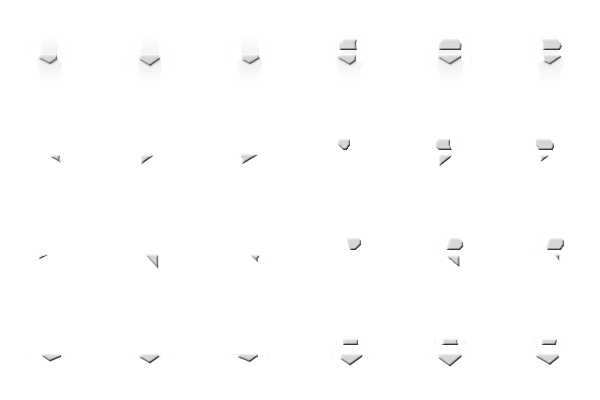
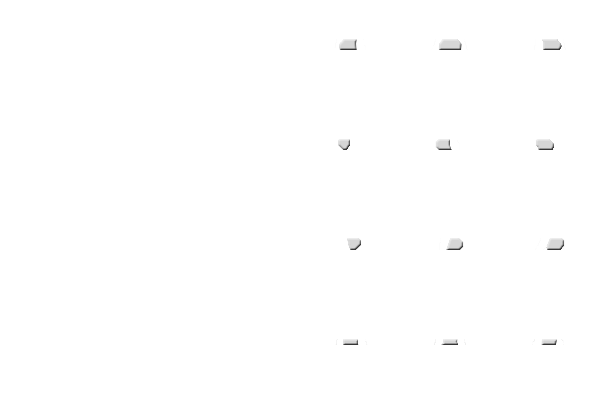
Improved msg; swimming

diff --git a/gamepalclient/src/draw.js b/gamepalclient/src/draw.js
@@ -19,17 +19,21 @@ export const drawMethods = {
     context.restore()
   },
   drawCharacter (constants, context, tempCanvas, x, y, deltaWidth, deltaHeight, avatarSize, imageBlockSize, blockSize, defaultBlockSize,
-    upLeftPoint, downRightPoint,
-    userCode, playerInfoTemp, relations, avatarIndex,
-    avatarsImage, bodiesImage, armsImage, eyesImage, hairstylesImage, toolsImage, outfitsImage, animalsImage) {
+      upLeftPoint, downRightPoint,
+      userCode, playerInfoTemp, relations, avatarIndex,
+      avatarsImage, bodiesImage, armsImage, eyesImage, hairstylesImage, toolsImage, outfitsImage, animalsImage) {
+
+    var isSwimming = this.isDef(playerInfoTemp.floorCode) && playerInfoTemp.floorCode == 1018
     // Draw shadow
-    context.save()
-    context.beginPath()
-    context.fillStyle = 'rgba(31, 31, 31, 0.25)'
-    context.ellipse((x + 0.5) * blockSize + deltaWidth, (y+ 0.9) * blockSize + deltaHeight,
-    blockSize * 0.2, blockSize * 0.1, 0, 0, 2 * Math.PI)
-    context.fill()
-    context.restore()
+    if (!isSwimming) {
+      context.save()
+      context.beginPath()
+      context.fillStyle = 'rgba(31, 31, 31, 0.25)'
+      context.ellipse((x + 0.5) * blockSize + deltaWidth, (y+ 0.9) * blockSize + deltaHeight,
+      blockSize * 0.2, blockSize * 0.1, 0, 0, 2 * Math.PI)
+      context.fill()
+      context.restore()
+    }
 
     var offsetX, offsetY
     if (playerInfoTemp.faceDirection >= 315 || playerInfoTemp.faceDirection < 45) {
@@ -75,19 +79,26 @@ export const drawMethods = {
       // Draw head
       this.drawHead(context, imageBlockSize, blockSize, upLeftPoint, downRightPoint, offsetY, playerInfoTemp, eyesImage, hairstylesImage)
       // Draw body (down)
-      context.drawImage(bodiesImage[playerInfoTemp.skinColor - 1], offsetX * imageBlockSize, (constants.WAIST_BODY_RATIO + offsetY) * imageBlockSize, imageBlockSize, (1 - constants.WAIST_BODY_RATIO) * imageBlockSize, 
-      x * blockSize + deltaWidth, (constants.WAIST_BODY_RATIO + y) * blockSize + deltaHeight, blockSize, (1 - constants.WAIST_BODY_RATIO) * blockSize)
+      if (!isSwimming) {
+        context.drawImage(bodiesImage[playerInfoTemp.skinColor - 1], offsetX * imageBlockSize, (constants.WAIST_BODY_RATIO + offsetY) * imageBlockSize, imageBlockSize, (1 - constants.WAIST_BODY_RATIO) * imageBlockSize, 
+        x * blockSize + deltaWidth, (constants.WAIST_BODY_RATIO + y) * blockSize + deltaHeight, blockSize, (1 - constants.WAIST_BODY_RATIO) * blockSize)
+      }
       // Draw body (up)
       context.drawImage(bodiesImage[playerInfoTemp.skinColor - 1], upOffsetX * imageBlockSize, (constants.HEAD_BODY_RATIO + offsetY) * imageBlockSize, imageBlockSize, (constants.WAIST_BODY_RATIO - constants.HEAD_BODY_RATIO) * imageBlockSize, 
       x * blockSize + deltaWidth, (constants.HEAD_BODY_RATIO + y) * blockSize + deltaHeight, blockSize, (constants.WAIST_BODY_RATIO - constants.HEAD_BODY_RATIO) * blockSize)
       // Draw underwear
-      this.drawOutfits(context, tempCanvas, outfitsImage, 'a006', 0, upOffsetX, offsetY, x, y, deltaWidth, deltaHeight, imageBlockSize, blockSize)
+      this.drawOutfits(context, tempCanvas, outfitsImage, 'o006', 0, upOffsetX, offsetY, x, y, deltaWidth, deltaHeight, imageBlockSize, blockSize)
+      if (!isSwimming) {
+        this.drawOutfits(context, tempCanvas, outfitsImage, 'o006', 1, upOffsetX, offsetY, x, y, deltaWidth, deltaHeight, imageBlockSize, blockSize)
+      }
       if (this.isDef(playerInfoTemp.outfits) && playerInfoTemp.outfits.length > 0) {
         for (var outfitIndex in playerInfoTemp.outfits) {
-          // Draw pants
-          this.drawOutfits(context, tempCanvas, outfitsImage, playerInfoTemp.outfits[outfitIndex], 1, offsetX, offsetY, x, y, deltaWidth, deltaHeight, imageBlockSize, blockSize)
-          // Draw shoes
-          this.drawOutfits(context, tempCanvas, outfitsImage, playerInfoTemp.outfits[outfitIndex], 2, offsetX, offsetY, x, y, deltaWidth, deltaHeight, imageBlockSize, blockSize)
+          if (!isSwimming) {
+            // Draw pants
+            this.drawOutfits(context, tempCanvas, outfitsImage, playerInfoTemp.outfits[outfitIndex], 1, offsetX, offsetY, x, y, deltaWidth, deltaHeight, imageBlockSize, blockSize)
+            // Draw shoes
+            this.drawOutfits(context, tempCanvas, outfitsImage, playerInfoTemp.outfits[outfitIndex], 2, offsetX, offsetY, x, y, deltaWidth, deltaHeight, imageBlockSize, blockSize)
+          }
           // Draw clothes
           this.drawOutfits(context, tempCanvas, outfitsImage, playerInfoTemp.outfits[outfitIndex], 0, upOffsetX, offsetY, x, y, deltaWidth, deltaHeight, imageBlockSize, blockSize)
         }
@@ -691,11 +702,11 @@ export const drawMethods = {
   drawOutfits (context, tempCanvas, outfitsImage, outfitNo, partIndex, offsetX, offsetY, x, y, deltaWidth, deltaHeight, imageBlockSize, blockSize) {
     var rgbArray
     switch (outfitNo) {
-      case 'a001':
-      case 'a002':
-        if (outfitNo == 'a001') {
+      case 'o001':
+      case 'o002':
+        if (outfitNo == 'o001') {
           rgbArray = [0, 0, 255]
-        } else if (outfitNo == 'a002') {
+        } else if (outfitNo == 'o002') {
           rgbArray = [255, 0, 0]
         }
         switch (partIndex) {
@@ -719,7 +730,7 @@ export const drawMethods = {
             break
         }
         break
-      case 'a003':
+      case 'o003':
         switch (partIndex) {
           case 0:
             this.drawOutfit(context, tempCanvas, outfitsImage[partIndex][0], [153, 204, 153], offsetX, offsetY, x, y, deltaWidth, deltaHeight, imageBlockSize, blockSize)
@@ -737,14 +748,14 @@ export const drawMethods = {
             break
         }
         break
-      case 'a004':
-      case 'a005':
+      case 'o004':
+      case 'o005':
         switch (partIndex) {
           case 0:
             this.drawOutfit(context, tempCanvas, outfitsImage[partIndex][0], [7, 7, 7], offsetX, offsetY, x, y, deltaWidth, deltaHeight, imageBlockSize, blockSize)
-            if (outfitNo == 'a004') {
+            if (outfitNo == 'o004') {
               this.drawOutfit(context, tempCanvas, outfitsImage[partIndex][3], undefined, offsetX, offsetY, x, y, deltaWidth, deltaHeight, imageBlockSize, blockSize)
-            } else if (outfitNo == 'a005') {
+            } else if (outfitNo == 'o005') {
               this.drawOutfit(context, tempCanvas, outfitsImage[partIndex][4], undefined, offsetX, offsetY, x, y, deltaWidth, deltaHeight, imageBlockSize, blockSize)
             }
             break
@@ -758,8 +769,15 @@ export const drawMethods = {
             break
         }
         break
-      case 'a006':
-        this.drawOutfit(context, tempCanvas, outfitsImage[0][5], undefined, offsetX, offsetY, x, y, deltaWidth, deltaHeight, imageBlockSize, blockSize)
+      case 'o006':
+        switch (partIndex) {
+          case 0:
+            this.drawOutfit(context, tempCanvas, outfitsImage[partIndex][5], undefined, offsetX, offsetY, x, y, deltaWidth, deltaHeight, imageBlockSize, blockSize)
+            break
+          case 1:
+            this.drawOutfit(context, tempCanvas, outfitsImage[partIndex][1], undefined, offsetX, offsetY, x, y, deltaWidth, deltaHeight, imageBlockSize, blockSize)
+            break
+        }
         break
       default:
         this.drawOutfit(context, tempCanvas, outfitsImage[partIndex][0], undefined, offsetX, offsetY, x, y, deltaWidth, deltaHeight, imageBlockSize, blockSize)

diff --git a/gamepalclient/src/components/worldComponent.vue b/gamepalclient/src/components/worldComponent.vue
@@ -228,6 +228,7 @@
             <img id="outfits_a_4" src="../assets/image/characters/outfits/a_4.png" />
             <img id="outfits_a_5" src="../assets/image/characters/outfits/a_5.png" />
             <img id="outfits_b_0" src="../assets/image/characters/outfits/b_0.png" />
+            <img id="outfits_b_1" src="../assets/image/characters/outfits/b_1.png" />
             <img id="outfits_c_0" src="../assets/image/characters/outfits/c_0.png" />
             <img id="outfits_d_0" src="../assets/image/characters/outfits/d_0.png" />
             <img id="outfits_d_1" src="../assets/image/characters/outfits/d_1.png" />
@@ -479,7 +480,10 @@ export default {
         document.getElementById('outfits_a_4'), 
         document.getElementById('outfits_a_5')
       ],
-      [document.getElementById('outfits_b_0')],
+      [
+        document.getElementById('outfits_b_0'),
+        document.getElementById('outfits_b_1')
+      ],
       [document.getElementById('outfits_c_0')],
       [
         document.getElementById('outfits_d_0'), 
@@ -762,14 +766,14 @@ export default {
       if (!this.isDef(userInfo.regionInfo) || userInfo.regionInfo.regionNo != response.regionInfo.regionNo) {
         isRegionChanged = true
       }
-      var isSceneChanged = isRegionChanged
-      if (!this.isDef(userInfo.sceneInfo) || userInfo.sceneInfo.sceneCoordinate.x != response.sceneInfo.sceneCoordinate.x 
-          || userInfo.sceneInfo.sceneCoordinate.y != response.sceneInfo.sceneCoordinate.y) {
-        isSceneChanged = true
-      }
-      if (isSceneChanged) {
-        this.addChat('来到【'+ response.regionInfo.name + '-' + response.sceneInfo.name +'】')
-      }
+      // var isSceneChanged = isRegionChanged
+      // if (!this.isDef(userInfo.sceneInfo) || userInfo.sceneInfo.sceneCoordinate.x != response.sceneInfo.sceneCoordinate.x 
+      //     || userInfo.sceneInfo.sceneCoordinate.y != response.sceneInfo.sceneCoordinate.y) {
+      //   isSceneChanged = true
+      // }
+      // if (isSceneChanged) {
+      //   this.addChat('来到【'+ response.regionInfo.name + '-' + response.sceneInfo.name +'】')
+      // }
       if (isRegionChanged) {
         userInfo.webSocketMessageDetail.functions.updateMiniMap = true
       }
@@ -800,10 +804,6 @@ export default {
         for (let i = 0; i < response.messages.length; i++) {
           var message = response.messages[i]
           var fromUserCode = message.fromUserCode
-          if (fromUserCode == userInfo.userCode) {
-            // Message from self has shown before
-            continue
-          }
           if (message.type == this.$constants.MESSAGE_TYPE_PRINTED) {
             var fromNickname = '[已离线]'
             if (this.isDef(userInfo.playerInfos[fromUserCode])) {
@@ -889,11 +889,11 @@ export default {
         //     this.getItems('t006', 1)
         //     this.getItems('t007', 1)
         //     this.getItems('t008', 1)
-        //     this.getItems('a001', 1)
-        //     this.getItems('a002', 1)
-        //     this.getItems('a003', 1)
-        //     this.getItems('a004', 1)
-        //     this.getItems('a005', 1)
+        //     this.getItems('o001', 1)
+        //     this.getItems('o002', 1)
+        //     this.getItems('o003', 1)
+        //     this.getItems('o004', 1)
+        //     this.getItems('o005', 1)
         //     this.getItems('c001', 1)
         //     this.getItems('c002', 1)
         //     this.getItems('c003', 1)
@@ -2308,7 +2308,7 @@ export default {
       }
     },
     startInteraction (block) {
-      if (this.isDef(userInfo.interactionInfo) && userInfo.interactionInfo.code == block.code) {
+      if (this.isDef(userInfo.interactionInfo) && userInfo.interactionInfo.id == block.id) {
         // Without this, interaction list will keep updating and cannot select 24/08/20
         return
       }
@@ -2321,10 +2321,10 @@ export default {
             list: []
           }
         }
-        if (block.playerType == this.$constants.PLAYER_TYPE_HUMAN) {
+        if (userInfo.playerInfos[block.id].playerType == this.$constants.PLAYER_TYPE_HUMAN) {
           userInfo.interactionInfo.list.push(this.$constants.INTERACTION_TALK)
         }
-        if (block.creatureType == this.$constants.CREATURE_TYPE_HUMAN) {
+        if (userInfo.playerInfos[block.id].creatureType == this.$constants.CREATURE_TYPE_HUMAN) {
           userInfo.interactionInfo.list.push(this.$constants.INTERACTION_SUCCUMB)
           userInfo.interactionInfo.list.push(this.$constants.INTERACTION_EXPEL)
         }
@@ -2749,15 +2749,15 @@ export default {
         return
       }
       document.getElementById('chat-content').value = ''
-      if (scope === this.$constants.SCOPE_GLOBAL) {
-        this.addChat(userInfo.playerInfo.nickname + ':[广播]' + content)
-      } else if (scope === this.$constants.SCOPE_INDIVIDUAL) {
-        var toNickname = '(已离线)'
-        if (this.isDef(userInfo.playerInfos[chatTo])) {
-          toNickname = userInfo.playerInfos[chatTo].nickname
-        }
-        this.addChat(userInfo.playerInfo.nickname + ':[to ' + toNickname + ']' + content)
-      }
+      // if (scope === this.$constants.SCOPE_GLOBAL) {
+      //   this.addChat(userInfo.playerInfo.nickname + ':[广播]' + content)
+      // } else if (scope === this.$constants.SCOPE_INDIVIDUAL) {
+      //   var toNickname = '(已离线)'
+      //   if (this.isDef(userInfo.playerInfos[chatTo])) {
+      //     toNickname = userInfo.playerInfos[chatTo].nickname
+      //   }
+      //   this.addChat(userInfo.playerInfo.nickname + ':[to ' + toNickname + ']' + content)
+      // }
       userInfo.webSocketMessageDetail.functions.addMessages.push({
          type: this.$constants.MESSAGE_TYPE_PRINTED, 
          scope: scope, 
